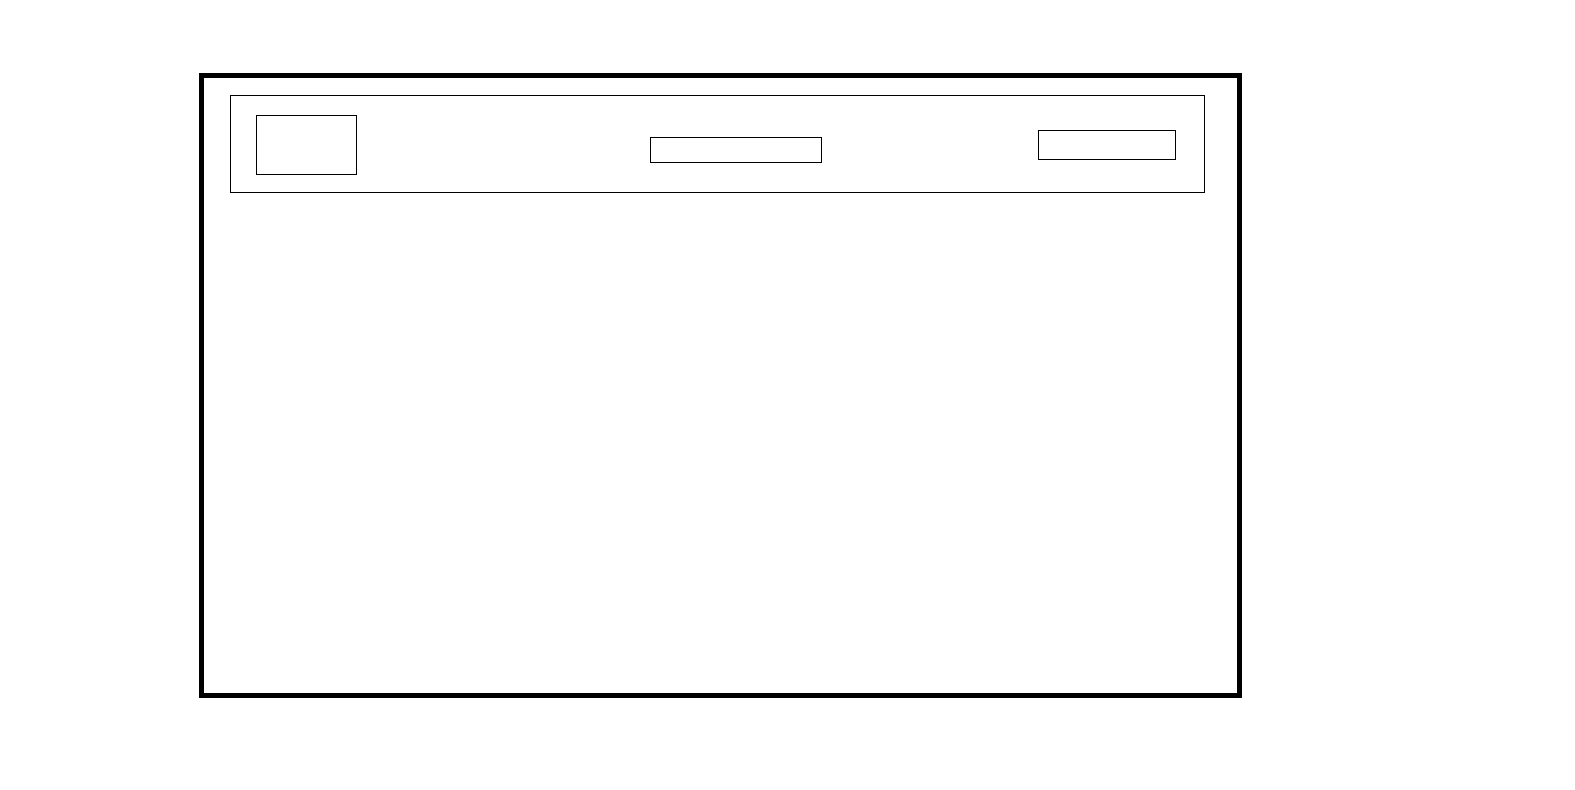
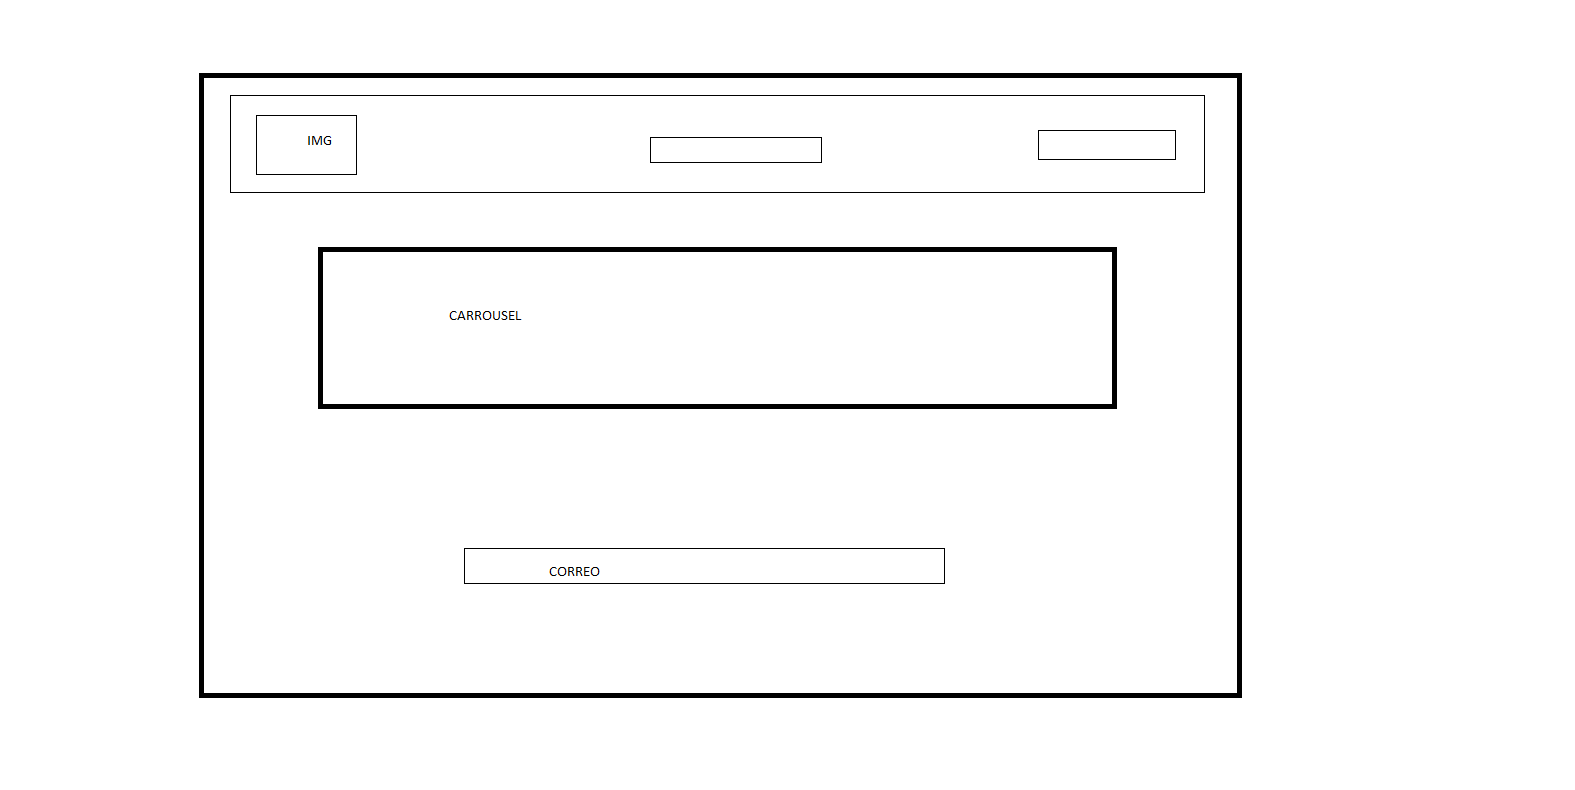
Busqueda de media queries

diff --git a/style.css b/style.css
@@ -1,5 +1,5 @@
 body{
-    background-color: white;
+    background-image: url("./img/fondo.webp");
     background-repeat: no-repeat;
     background-size: cover;
     background-attachment: fixed;
@@ -8,35 +8,32 @@ body{
 body {
     margin: 0;
     padding: 0;
-    font-size: 13px;
-    font-family: Arial, Helvetica, sans-serif;
+    font-size: 20px;
+    font-family: system-ui, -apple-system, BlinkMacSystemFont, 'Segoe UI', Roboto, Oxygen, Ubuntu, Cantarell, 'Open Sans', 'Helvetica Neue', sans-serif;
 }
 
-header {
-    display: flex;
-    justify-content: flex-end;
+header ul{
+    list-style: none;
 }
 
-nav .nav-right-section .icono {
-    background-image: url("./img/logo.jpg");
+nav .nav-flex-conteiner .icono {
+    background-image: url("./img/icono.jpeg");
     background-repeat: no-repeat;
     background-position: center;
-    background-size: contain;
-    width: 20px;
-    height: 20px;
+    background-size: cover;
+    width: 45px;
+    height: 45px;
+    border-radius: 30%;
 }
 
-nav .nav-right-section .perfil {
-    background-image: url("./img/perfil.jpg");
-    border-radius: 50px;
-    margin-left: 10px;
-    width: 40px;
-    height: 40px;
+nav .nav-flex-conteiner{
+    display: flex;
+    flex-direction:row;
+    justify-content: space-between;
 }
 
-nav .nav-right-section a {
-    margin-right: 25px;
-    color: #000000;
+nav .nav-flex-conteiner a {
+    margin-right: 50px;
 }
 
 a {
@@ -44,18 +41,9 @@ a {
     cursor: pointer;
 }
 
-header nav .nav-right-section {
-    width: 250px;
-    height: auto;
-    display: flex;
-    list-style: none;
-    justify-content: center;
-    align-items: center;
-}
-
 main .main-logo {
-    width: 550px;
-    margin-left: 300px;
+    width: 150px;
+    margin-left: 500px;
 }
 
 main .main-input {
@@ -83,25 +71,6 @@ main .main-input input{
 main .main-input-container:hover{
     box-shadow: 0 1px 6px 0 #20212447;
     border-color: #dfe1e500;
-}
-
-main .main-input .search-icon{
-    background-image: url("https://e7.pngegg.com/pngimages/886/318/png-clipart-computer-icons-edison-state-community-college-google-search-symbol-magnifying-glass-material-logo-google-logo.png");
-    background-repeat: no-repeat;
-    background-position: center;
-    background-size: contain;
-    width: 45px;
-    height: 45px;
-}
-
-main .main-input .micro-icon{
-    background-image: url("https://upload.wikimedia.org/wikipedia/commons/thumb/e/e8/Google_mic.svg/726px-Google_mic.svg.png");
-    background-repeat: no-repeat;
-    background-position: center;
-    background-size: contain;
-    width: 30px;
-    height: 30px;
-    cursor: pointer;
 }
 
 main .main-buttons{

diff --git a/index.html b/index.html
@@ -4,35 +4,35 @@
     <meta charset="UTF-8">
     <meta http-equiv="X-UA-Compatible" content="IE=edge">
     <meta name="viewport" content="width=device-width, initial-scale=1.0">
-    <title>Tus Mejores Ventas</title>
+    <link rel="stylesheet" href="./style.css">
+    <title>Landing Page</title>
+    <link rel="icon" href="./img/icono.jpeg">
 </head>
 <body>
     <header>
     <nav>
-        <ul class="nav-right-section">
+        <ul class="nav-flex-conteiner">
+                <li class="icono">
+                    <a href="#"></a>
+                </li>
             <li>
-                <a href>Paises disponibles</a>
+                <a href style="color: black;">Paises disponibles</a>
             </li>
             <li>
-                <a href>Contacto</a>
-            </li>
-            <li class="icono">
-                <a href></a>
+                <a href style="color: black;">Contacto</a>
             </li>
         </ul>
     </nav>
     </header>
     <main>
         <section class="main-logo">
-            <img src="./img/google.webp">
+            <img src="https://s3.us-east-2.amazonaws.com/enviapaqueteria/uploads/landing/images/shipping/Envios-y-entregas.png">
         </section>
 
         <section class="main-input">
           <div class="main-input-container">
-            <span class="search-icon"></span>
             <input type="text">
-            <a class="micro-icon" href></a>
-          </div>
+            </div>
         </section>
 
         <section class="main-buttons">
